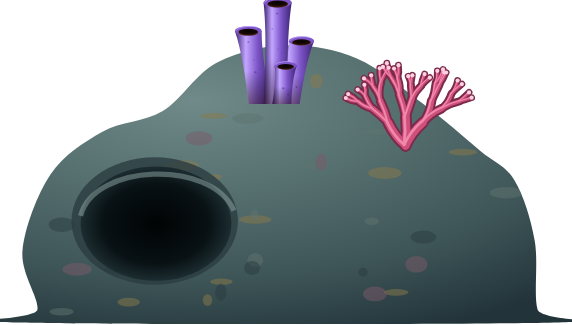
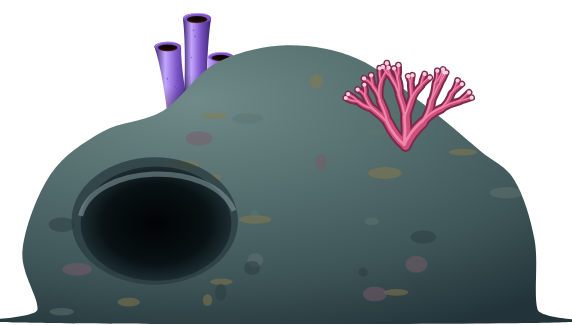
1.2.4: oyster removed; the eel rock's tube sponges grow from behind its shoulder (no flat bases showing)
Claude-Session: https://claude.ai/code/session_01TjXjoGUoKzCAKPjEBqhxMT

Changed region(s): [[0.2675, 0.0, 0.5647, 0.3385]]

diff --git a/tools/make-art.js b/tools/make-art.js
@@ -920,39 +920,14 @@ asset('rock', 572, 325, () => {
   let spots = ''; for (let k = 0; k < 40; k++) spots += `<ellipse cx="${f(rand(40, 400))}" cy="${f(rand(60, 240))}" rx="${f(rand(3, 14))}" ry="${f(rand(2, 7))}" fill="${pick(['#2a3c40', '#5d7470', '#7b5a6a', '#8a7a4a'])}" opacity=".5"/>`;
   return `<defs>${rad('r', [[0, '#6f8a88'], [0.7, '#3f5658'], [1, '#22343a']], 0.35, 0.2, 0.9)}<clipPath id="c"><path d="${smooth(pts, true)}"/></clipPath>${rad('cave', [[0, '#010304'], [0.7, '#081114'], [1, '#1c2c30']])}</defs>
   <g transform="scale(1.3)">
+  ${''/* purple tube sponges growing behind the rock's crown: the rock hides their bases */}
+  ${tubeSponge(150, 92, 0.3, ['#3b2370', '#7d55c8', '#c3a6ff'])}
   <path d="${smooth(pts, true)}" fill="url(#r)"/><g clip-path="url(#c)">${spots}
     <ellipse cx="119" cy="170" rx="64" ry="49" fill="#2a3c40" opacity=".8"/><ellipse cx="120" cy="172" rx="58" ry="44" fill="url(#cave)"/>
     <path d="M62,166 C72,126 162,122 180,162" fill="none" stroke="#8fa8a6" stroke-width="4" opacity=".5"/></g>
-  ${''/* a little cluster of purple tube sponges on the rock's crown, the pink sea fan further down the slope */}
-  ${tubeSponge(212, 80, 0.3, ['#3b2370', '#7d55c8', '#c3a6ff'])}
+
   ${branchy(312, 112, { len: 22, w: 6, depth: 3, spread: 0.5, split: 2, trunks: 3, fanOut: 0.5 }, ['#7a2a4a', '#d0507c', '#ff9fc0', '#ffd0e0']).svg}</g>`;
 });
-
-// ===== OYSTER (front sand): bottom shell, pearl, and a lid hinged at the left =====
-const oysterRidges = (d, n, col) => { let r = ''; for (let k = 1; k <= n; k++) r += `<path d="${d(k / (n + 1))}" fill="none" stroke="${col}" stroke-width="2" opacity=".55"/>`; return r; };
-asset('oyster_base', 210, 80, () => {
-  const shell = 'M8,26 C4,40 14,60 40,70 C80,80 140,80 176,70 C198,62 206,44 202,26 C150,36 60,36 8,26 Z';
-  const inner = 'M14,24 C40,10 168,8 198,24 C170,36 44,38 14,24 Z';
-  return `<defs>${lin('sh', [[0, '#8a8278'], [0.5, '#5e564e'], [1, '#3a332e']])}${lin('na', [[0, '#fdfbff'], [0.35, '#e9e2f4'], [0.6, '#f6e3ea'], [1, '#d6e6f2']], 0, 0, 1, 1)}
-    <clipPath id="c"><path d="${shell}"/></clipPath></defs>
-  <path d="${shell}" fill="url(#sh)"/>
-  <g clip-path="url(#c)">${oysterRidges((t) => `M${f(6 + 4 * t)},${f(28 + 40 * t)} C${f(60)},${f(40 + 44 * t)} ${f(150)},${f(40 + 44 * t)} ${f(204 - 6 * t)},${f(28 + 38 * t)}`, 4, '#2a241f')}</g>
-  <path d="${shell}" fill="none" stroke="#2a241f" stroke-width="2"/>
-  <path d="${inner}" fill="#f1e6d0"/>
-  <path d="M22,24 C50,14 162,12 190,24 C162,33 48,34 22,24 Z" fill="url(#na)"/>
-  <path d="${inner}" fill="none" stroke="#b8a888" stroke-width="2.5"/>`;
-});
-asset('oyster_lid', 210, 76, () => {
-  const lid = 'M6,62 C2,44 20,20 60,12 C100,4 150,6 182,20 C204,30 210,48 204,62 C170,70 40,70 6,62 Z';
-  return `<defs>${lin('lt', [[0, '#a59c90'], [0.45, '#7a7168'], [1, '#4c443d']])}<clipPath id="c"><path d="${lid}"/></clipPath></defs>
-  <path d="${lid}" fill="url(#lt)"/>
-  <g clip-path="url(#c)">${oysterRidges((t) => `M${f(4 + 16 * t)},${f(62 - 6 * t)} C${f(30 + 20 * t)},${f(62 - 48 * t)} ${f(170 - 10 * t)},${f(62 - 50 * t)} ${f(206 - 14 * t)},${f(62 - 8 * t)}`, 5, '#3a332c')}
-    <ellipse cx="90" cy="20" rx="60" ry="7" fill="#fff" opacity=".18"/></g>
-  <path d="${lid}" fill="none" stroke="#2a241f" stroke-width="2"/>
-  <path d="M10,63 C44,70 170,70 200,63" fill="none" stroke="#efe6f6" stroke-width="3" opacity=".85"/>`;
-});
-asset('oyster_pearl', 44, 44, () => `<defs>${rad('p', [[0, '#ffffff'], [0.55, '#f1ecf4'], [0.85, '#d6cfe0'], [1, '#b8b0c8']], 0.38, 0.32, 0.7)}${rad('g', [[0, '#fff', 0.55], [1, '#fff', 0]])}</defs>
-  <circle cx="22" cy="22" r="21" fill="url(#g)"/><circle cx="22" cy="22" r="15" fill="url(#p)"/><ellipse cx="16.5" cy="15.5" rx="5" ry="3.2" fill="#fff" opacity=".95"/>`);
 
 asset('bubble', 64, 64, () => `<defs>${rad('b', [[0, '#fff', 0.05], [0.75, '#dff8ff', 0.18], [0.95, '#fff', 0.85], [1, '#fff', 0]])}</defs>
   <circle cx="32" cy="32" r="30" fill="url(#b)"/><ellipse cx="23" cy="21" rx="8" ry="5" fill="#fff" opacity=".85" transform="rotate(-35 23 21)"/>`);

diff --git a/README.md b/README.md
@@ -3,7 +3,7 @@
 An animated "2.5D" coral reef: depth layers with parallax camera sway, depth haze, sun rays,
 moving caustics on the sand, bubbles, swaying kelp and ~30 animated creatures: reef fish, schools,
 lionfish, sharks, sea turtles, mantas, jellyfish, octopus, a dolphin pod, a distant whale, seahorses,
-crabs, sea stars, a moray eel in the rock cave, a snapping shrimp that pops out of the sponge tubes, a colony of garden eels that duck into the sand, a big oyster that slowly opens now and then to show its pearl, and a clownfish pair living in the anemone. Reef fish scatter when a shark swims through, and on the nights after a full moon the corals spawn under the moonlight. Now and then Scuba Steve, a scuba
+crabs, sea stars, a moray eel in the rock cave, a snapping shrimp that pops out of the sponge tubes, a colony of garden eels that duck into the sand, and a clownfish pair living in the anemone. Reef fish scatter when a shark swims through, and on the nights after a full moon the corals spawn under the moonlight. Now and then Scuba Steve, a scuba
 diver, passes far away, and a baited fishing hook comes down; a fish always steals the worm and gets away.
 
 **Day/night:** follows the Roku's clock. Warm light at sunrise/sunset; at night the reef darkens,
@@ -27,7 +27,7 @@ Run these from **PowerShell** (Git Bash's `tar` can't create the zip).
 Launch options for testing (`.\tools\roku.ps1 log -Launch "..."`): `hour=21.5` (start at a time of day),
 `demo=1` (whole day in 4 minutes), `settings=1` (open the settings panel),
 `off=shark%2Ceel` (save that list of disabled animals; `off=none` turns all back on),
-`clock=both` (show the clock this run), `count=few|some|lots` (save the animal count setting), `fish=1` (fishing event in 2 s), `diver=1` (send the diver now), `shrimp=1` (shrimp pops out now), `oyster=1` (the oyster opens now),
+`clock=both` (show the clock this run), `count=few|some|lots` (save the animal count setting), `fish=1` (fishing event in 2 s), `diver=1` (send the diver now), `shrimp=1` (shrimp pops out now),
 `shark=1` (a close-up shark pass in 2 s, to see fish scatter), `spawn=1` (treat tonight as a full-moon coral spawning night; use with `hour=22`),
 `quality=0|1|2` (force minimal / reduced / full quality; the probe then measures every 5 s and only reports),
 `hide=surfaceGroup%2Crays` (hide nodes by id, to find which layer causes a drawing problem). `setscene=1` opens the screensaver's Custom settings screen. Combine with `&`.

diff --git a/store/LISTING.md b/store/LISTING.md
@@ -27,7 +27,7 @@ Settings (Settings > Theme > Screensavers > Reefscape > Custom settings):
 No account, no ads, no internet connection needed, and no data collected.
 
 ## Release notes
-1.2.3: Garden eels, an oyster that opens to show its pearl, fish that scatter from sharks, full-moon coral spawning, sea stars that crawl, drifting seahorses, fish and sharks with moving fins, a setting for how many animals swim at once, Scuba Steve the diver, and smoother animation on older Roku models.
+1.2.4: Garden eels, fish that scatter from sharks, full-moon coral spawning, sea stars that crawl, drifting seahorses, fish and sharks with moving fins, a setting for how many animals swim at once, Scuba Steve the diver, and smoother animation on older Roku models.
 
 1.0: First release.
 
@@ -46,7 +46,7 @@ No account, no ads, no internet connection needed, and no data collected.
 - Screenshots 1920x1080: screenshots/1-reef-day.jpg ... 6-clock.jpg (settings-screen.jpg is a spare)
 
 ## Package
-- ../signing/Reefscape-1.2.3.pkg (signed; keep ../signing/SIGNING-KEY.txt safe)
+- ../signing/Reefscape-1.2.4.pkg (signed; keep ../signing/SIGNING-KEY.txt safe)
 
 ## Web pages the profile asks for
 - Privacy policy: privacy-policy.html
